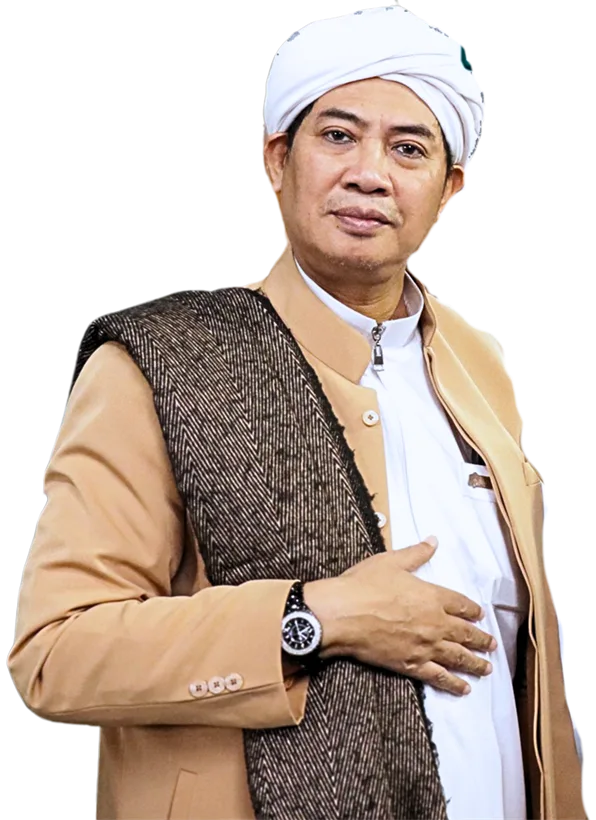
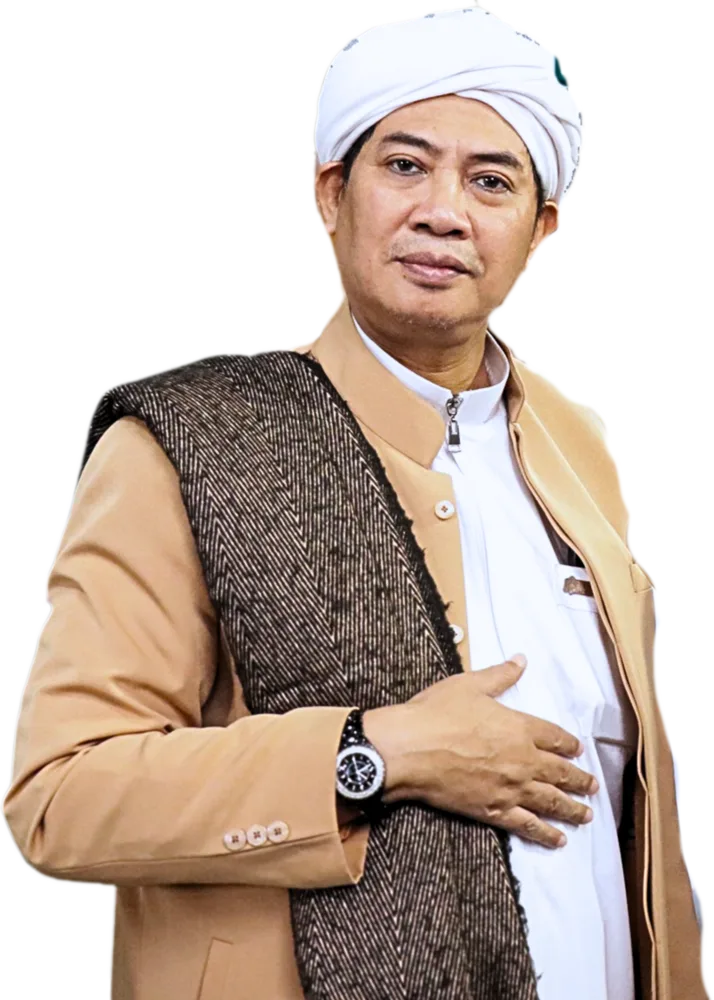
feat(launcher): rapikan tepi foto + teks dekat foto + form diperbesar
- abuya.webp diregenerasi dari original: ImageMagick trim + erode/feather alpha
  (bersihkan fringe potongan editor) + resize x1000 → cwebp (80KB, tepi halus).
- Teks sambutan didekatkan ke foto (margin-left 33rem, bukan rata-kanan).
- Kartu form diperbesar (max-width 380 → 430). Split hero >=1320px.

diff --git a/resources/views/tenant/login.blade.php b/resources/views/tenant/login.blade.php
@@ -22,7 +22,7 @@
         .aside .brand{display:flex;align-items:center;gap:14px}
         .aside .brandmark{width:60px;height:60px;padding:7px;box-shadow:0 10px 30px rgba(0,0,0,.25)}
         .aside .pname{font-weight:800;font-size:1.3rem;line-height:1.25}
-        .aside .hero{margin:auto 0 auto auto;max-width:26rem;text-align:left}
+        .aside .hero{margin:auto auto auto 33rem;max-width:26rem;text-align:left}
         .aside .bismillah{font-size:1.7rem;margin-bottom:16px;color:var(--gold-soft)}
         .aside h2{font-size:clamp(1.9rem,2.8vw,2.7rem);font-weight:800;line-height:1.15;letter-spacing:-.01em}
         .aside .lead{margin-top:14px;opacity:.86;font-size:1.05rem;max-width:42ch;line-height:1.6}
@@ -30,7 +30,7 @@
 
         /* ══ Panel kanan: FORM (1/4 lebar) ══ */
         .main{flex:1;display:flex;flex-direction:column;align-items:center;justify-content:center;padding:36px 22px}
-        .card{width:100%;max-width:380px}
+        .card{width:100%;max-width:430px}
         .top{text-align:center}
         .top .brandmark{width:68px;height:68px;margin:0 auto 14px;padding:9px;box-shadow:var(--shadow-soft);border:1px solid var(--border)}
         .top h1{font-size:1.2rem;font-weight:800}
@@ -58,7 +58,7 @@
         footer{margin-top:24px;text-align:center;font-size:.71rem;color:var(--muted)}
         footer a{color:var(--brand);font-weight:600}
 
-        @media(min-width:1200px){.aside{display:block}}
+        @media(min-width:1320px){.aside{display:block}}
     </style>
 </head>
 <body>
